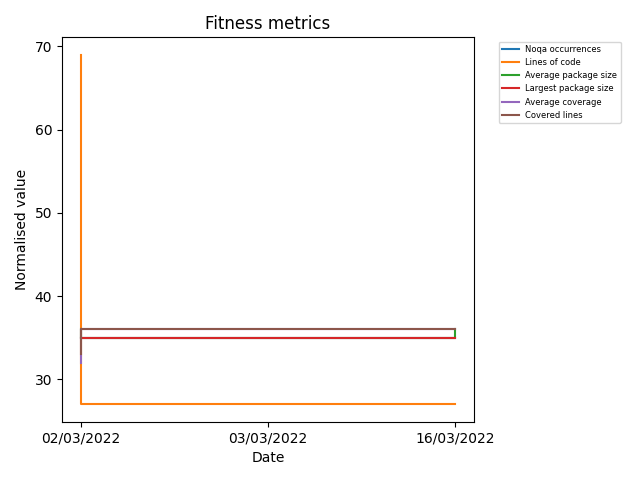
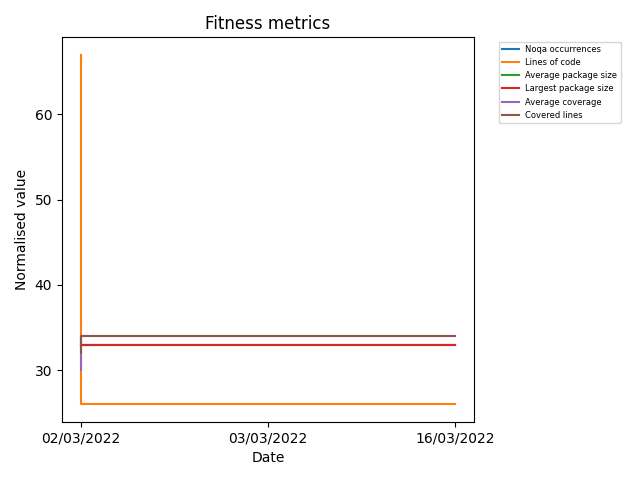
Trsv2-110 upgrade django 3 (#153)
* TRSV2-110 - upgrading django to 3.2.12

* Upgraded Django to 3.2 - refactored the code to remove references to postgres.jsonfield and NullBooleanField as these have been depreciated.

Also updated other packages that depended on Django 2.X.

* Upgraded gevent to 21.12.0 as jenkins build was failing due to database ENGINE error

* Upgraded django-db-geventpool to 4.0.0

* Added version number to pii-ner-exclude.txt

* Rebuilt requirements.txt files

* Black reformatting

* [ci skip] AUTOMATED - update fitness functions

diff --git a/trade_remedies_api/authentication/migrations/0003_auto_20220207_1137.py b/trade_remedies_api/authentication/migrations/0003_auto_20220207_1137.py
@@ -1,0 +1,26 @@
+# Generated by Django 3.2.12 on 2022-02-07 11:37
+
+from django.conf import settings
+from django.db import migrations, models
+import django.db.models.deletion
+
+
+class Migration(migrations.Migration):
+
+    dependencies = [
+        migrations.swappable_dependency(settings.AUTH_USER_MODEL),
+        ('authentication', '0002_auto_20211213_1855'),
+    ]
+
+    operations = [
+        migrations.AlterField(
+            model_name='emailverification',
+            name='user',
+            field=models.OneToOneField(on_delete=django.db.models.deletion.CASCADE, primary_key=True, related_name='email_verification', serialize=False, to=settings.AUTH_USER_MODEL),
+        ),
+        migrations.AlterField(
+            model_name='twofactorauth',
+            name='user',
+            field=models.OneToOneField(on_delete=django.db.models.deletion.CASCADE, primary_key=True, related_name='two_factor', serialize=False, to=settings.AUTH_USER_MODEL),
+        ),
+    ]

diff --git a/trade_remedies_api/workflow/models.py b/trade_remedies_api/workflow/models.py
@@ -41,7 +41,7 @@ class WorkflowTemplate(models.Model):
     id = models.UUIDField(primary_key=True, default=uuid.uuid4, editable=False)
     name = models.CharField(max_length=250, null=False, blank=False)
     locked = models.BooleanField(default=False)
-    template = fields.JSONField(null=False, blank=False)
+    template = models.JSONField(null=False, blank=False)
 
     def __str__(self):
         return self.name
@@ -361,7 +361,7 @@ class State(models.Model):
 
     id = models.UUIDField(primary_key=True, default=uuid.uuid4, editable=False)
     key = models.CharField(max_length=250, null=False, blank=False)
-    value = fields.JSONField(null=True, blank=True)
+    value = models.JSONField(null=True, blank=True)
     due_date = models.DateTimeField(null=True, blank=True)
     created_at = models.DateTimeField(auto_now_add=True, null=False)
     last_modified = models.DateTimeField(auto_now=True, null=True)

diff --git a/trade_remedies_api/cases/models/submission.py b/trade_remedies_api/cases/models/submission.py
@@ -143,7 +143,7 @@ class Submission(BaseModel):
         "organisations.Organisation", null=True, blank=True, on_delete=models.PROTECT
     )
     contact = models.ForeignKey("contacts.Contact", null=True, blank=True, on_delete=models.PROTECT)
-    review = models.NullBooleanField()
+    review = models.BooleanField(null=True)
     documents = models.ManyToManyField("documents.Document", through="SubmissionDocument")
     doc_reviewed_at = models.DateTimeField(null=True, blank=True)
     parent = models.ForeignKey("self", null=True, blank=True, on_delete=models.PROTECT)
@@ -181,7 +181,7 @@ class Submission(BaseModel):
         on_delete=models.SET_NULL,
     )
     issued_at = models.DateTimeField(null=True, blank=True)
-    deficiency_notice_params = fields.JSONField(null=True, blank=True)
+    deficiency_notice_params = models.JSONField(null=True, blank=True)
 
     objects = SubmissionManager()
 

diff --git a/trade_remedies_api/core/models.py b/trade_remedies_api/core/models.py
@@ -928,7 +928,7 @@ class UserProfile(models.Model):
     email_verify_code_last_sent = models.DateTimeField(null=True, blank=True)
     email_verified_at = models.DateTimeField(null=True, blank=True)
     last_modified = models.DateTimeField(auto_now=True)
-    settings = fields.JSONField(default=dict)
+    settings = models.JSONField(default=dict)
 
     def __str__(self):
         return "{0}".format(self.user.get_full_name())
@@ -1291,7 +1291,7 @@ class SystemParameter(models.Model):
             ("bool", "Boolean"),
         ],
     )
-    value = fields.JSONField(null=True, blank=True)
+    value = models.JSONField(null=True, blank=True)
     content_type = models.ForeignKey(ContentType, null=True, blank=True, on_delete=models.PROTECT)
     editable = models.BooleanField(default=False)
 

diff --git a/trade_remedies_api/cases/migrations/0058_auto_20220207_1201.py b/trade_remedies_api/cases/migrations/0058_auto_20220207_1201.py
@@ -1,0 +1,28 @@
+# Generated by Django 3.2.12 on 2022-02-07 12:01
+
+from django.db import migrations, models
+
+
+class Migration(migrations.Migration):
+
+    dependencies = [
+        ('cases', '0057_alter_caseworkflowstate_value'),
+    ]
+
+    operations = [
+        migrations.AlterField(
+            model_name='submission',
+            name='deficiency_notice_params',
+            field=models.JSONField(blank=True, null=True),
+        ),
+        migrations.AlterField(
+            model_name='submission',
+            name='review',
+            field=models.BooleanField(null=True),
+        ),
+        migrations.AlterField(
+            model_name='submissiontype',
+            name='meta',
+            field=models.JSONField(default=dict),
+        ),
+    ]

diff --git a/trade_remedies_api/cases/models/workflow.py b/trade_remedies_api/cases/models/workflow.py
@@ -29,7 +29,7 @@ class CaseWorkflow(BaseModel):
     case = models.OneToOneField(
         "cases.Case", related_name="workflow", null=False, blank=False, on_delete=models.PROTECT
     )
-    workflow = fields.JSONField(default=dict)
+    workflow = models.JSONField(default=dict)
 
     objects = CaseWorkflowManager()
 
@@ -195,7 +195,7 @@ class CaseWorkflowState(BaseModel):
 
     case = models.ForeignKey("cases.Case", null=False, blank=False, on_delete=models.PROTECT)
     key = models.CharField(max_length=250, null=False, blank=False, db_index=True)
-    value = fields.JSONField(null=True, blank=True)
+    value = models.JSONField(null=True, blank=True)
     due_date = models.DateTimeField(null=True, blank=True)
 
     objects = CaseWorkflowStateManager()

diff --git a/trade_remedies_api/invitations/models.py b/trade_remedies_api/invitations/models.py
@@ -263,13 +263,13 @@ class Invitation(BaseModel):
     invalid = models.BooleanField(default=False)
     code = models.CharField(max_length=50, null=True, blank=True, unique=True)
     short_code = models.CharField(max_length=16, null=True, blank=True, unique=True)
-    email_sent = models.NullBooleanField()
+    email_sent = models.BooleanField(null=True)
     accepted_at = models.DateTimeField(null=True, blank=True)
     sent_at = models.DateTimeField(null=True, blank=True)
     approved_by = models.ForeignKey(
         "core.User", null=True, blank=True, on_delete=models.PROTECT, related_name="approved"
     )
-    meta = fields.JSONField(default=dict)
+    meta = models.JSONField(default=dict)
 
     objects = InvitationManager()
 

diff --git a/trade_remedies_api/core/migrations/0025_auto_20220207_1201.py b/trade_remedies_api/core/migrations/0025_auto_20220207_1201.py
@@ -1,0 +1,23 @@
+# Generated by Django 3.2.12 on 2022-02-07 12:01
+
+from django.db import migrations, models
+
+
+class Migration(migrations.Migration):
+
+    dependencies = [
+        ('core', '0024_twofactorauth_delivery_type'),
+    ]
+
+    operations = [
+        migrations.AlterField(
+            model_name='systemparameter',
+            name='value',
+            field=models.JSONField(blank=True, null=True),
+        ),
+        migrations.AlterField(
+            model_name='userprofile',
+            name='settings',
+            field=models.JSONField(default=dict),
+        ),
+    ]

diff --git a/trade_remedies_api/invitations/migrations/0012_auto_20220207_1201.py b/trade_remedies_api/invitations/migrations/0012_auto_20220207_1201.py
@@ -1,0 +1,23 @@
+# Generated by Django 3.2.12 on 2022-02-07 12:01
+
+from django.db import migrations, models
+
+
+class Migration(migrations.Migration):
+
+    dependencies = [
+        ('invitations', '0011_auto_20210709_1832'),
+    ]
+
+    operations = [
+        migrations.AlterField(
+            model_name='invitation',
+            name='email_sent',
+            field=models.BooleanField(null=True),
+        ),
+        migrations.AlterField(
+            model_name='invitation',
+            name='meta',
+            field=models.JSONField(default=dict),
+        ),
+    ]

diff --git a/trade_remedies_api/notes/models.py b/trade_remedies_api/notes/models.py
@@ -20,7 +20,7 @@ class Note(BaseModel):
     content_type = models.ForeignKey(ContentType, null=False, blank=False, on_delete=models.PROTECT)
     case = models.ForeignKey("cases.Case", null=True, blank=True, on_delete=models.PROTECT)
     documents = models.ManyToManyField("documents.Document", blank=True)
-    data = fields.JSONField(null=True, blank=True)
+    data = models.JSONField(null=True, blank=True)
 
     class Meta:
         index_together = ["content_type", "model_id"]

diff --git a/trade_remedies_api/cases/migrations/0055_alter_casetype_meta.py b/trade_remedies_api/cases/migrations/0055_alter_casetype_meta.py
@@ -1,0 +1,18 @@
+# Generated by Django 3.2.12 on 2022-02-07 11:43
+
+from django.db import migrations, models
+
+
+class Migration(migrations.Migration):
+
+    dependencies = [
+        ('cases', '0054_populate_submissiontype_statement_intended_preliminary_decision'),
+    ]
+
+    operations = [
+        migrations.AlterField(
+            model_name='casetype',
+            name='meta',
+            field=models.JSONField(default=dict),
+        ),
+    ]

diff --git a/trade_remedies_api/audit/models.py b/trade_remedies_api/audit/models.py
@@ -91,7 +91,7 @@ class Audit(models.Model):
     content_type = models.ForeignKey(ContentType, null=True, blank=True, on_delete=models.PROTECT)
     milestone = models.BooleanField(default=False)
     parent = models.ForeignKey("self", null=True, blank=True, on_delete=models.PROTECT)
-    data: dict = fields.JSONField(null=True, blank=True)
+    data: dict = models.JSONField(null=True, blank=True)
 
     def _case_title(self):
         if not self.data:
